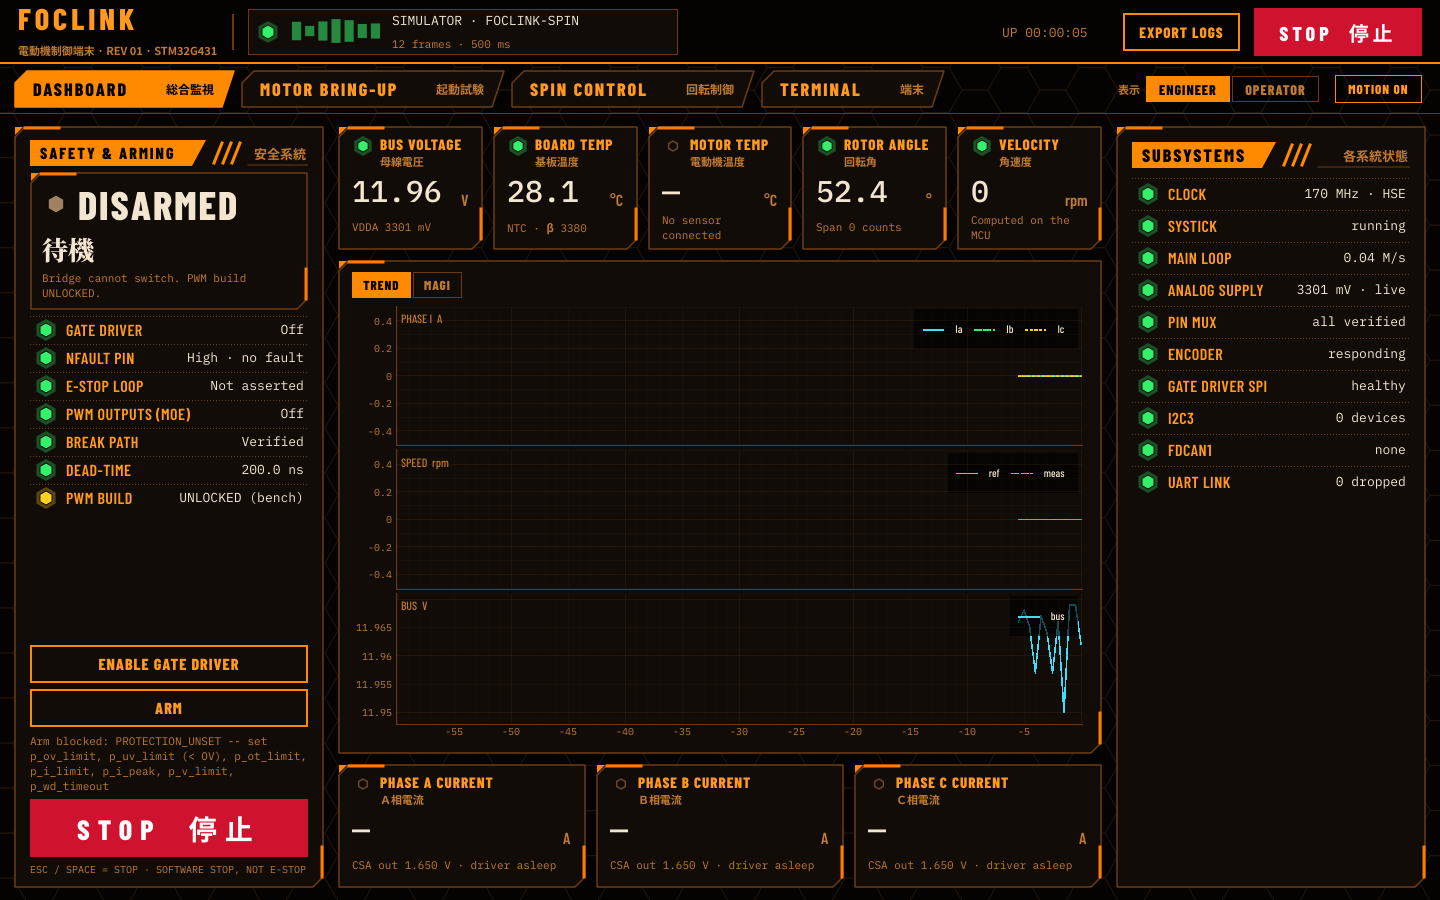
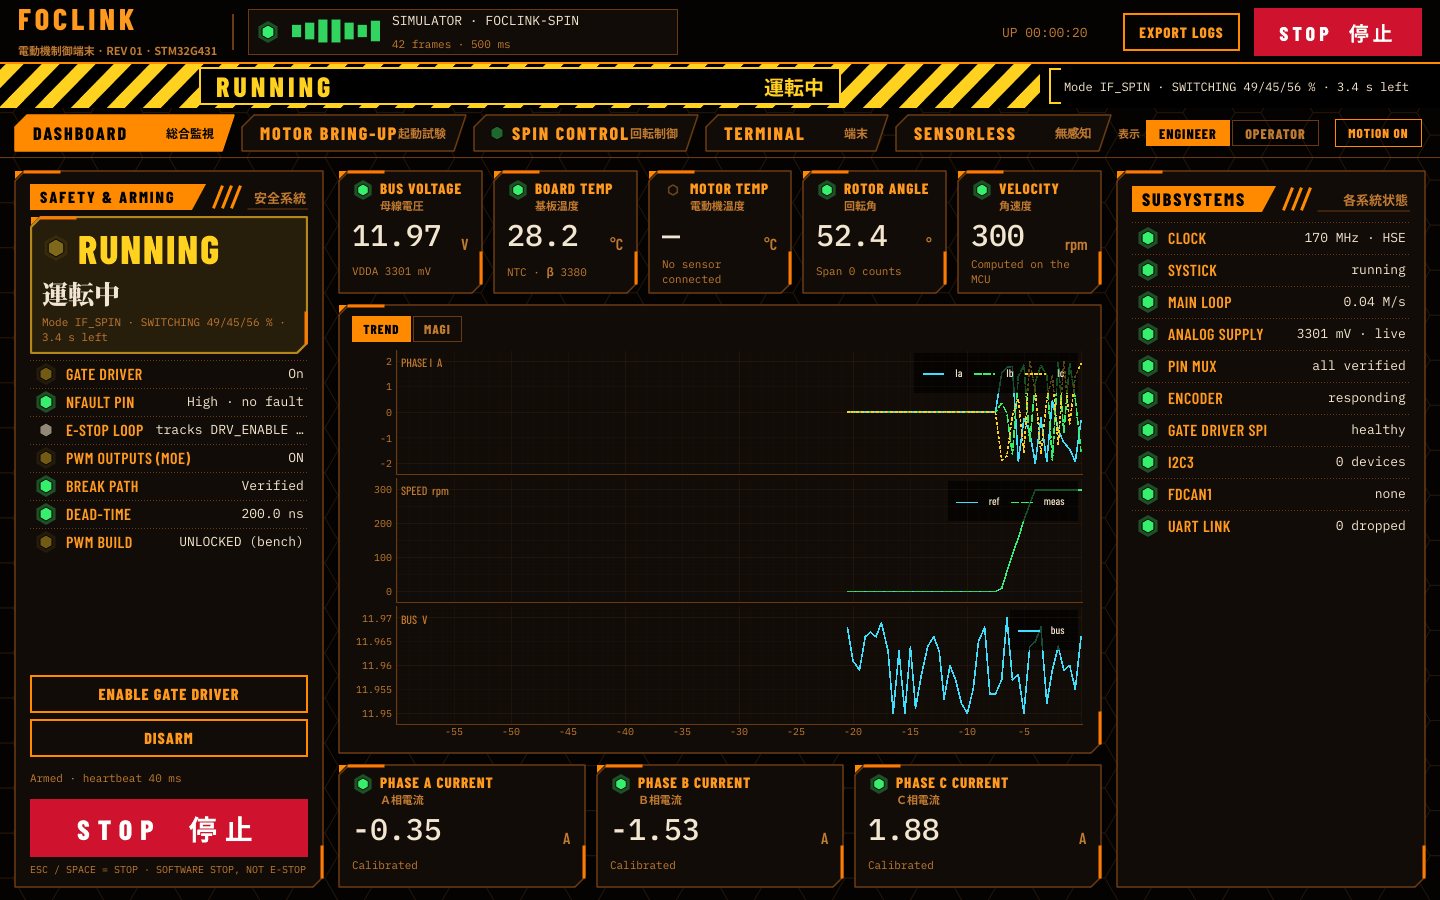
FOC: Nov 22 bench session; avionics: root cause undetermined; no-metadata test
- foc-controller: status, bench characterization (switching, protection,
  current sense, dead time, braking, heat, motor constants), nine annotated
  scope captures, Rev 2 table and an updated checklist from the repo README.
  GUI captures swapped for the repo's running ones; MAGI view dropped.
  Who-did-what line matches the repo.
- avionics-2024: the 2024 servo incident is 'root cause undetermined; most
  likely servo overcurrent following a reversed-connector event', not
  shoot-through. Photo renamed to match.
- resume: FOC line reflects the characterization.
- Privacy: stripped JPEG comment segments from four pictures; new test that
  no project picture carries EXIF, XMP, IPTC or comments.

Claude-Session: https://claude.ai/code/session_014vNndXVmVwynV78716Kcu1

diff --git a/tests/article.spec.js b/tests/article.spec.js
@@ -337,6 +337,28 @@ test.describe('the seven articles, as shipped', () => {
     expect(turned, 'rotate these for real and save without EXIF').toEqual([]);
   });
 
+  /* project rule: no metadata on site pictures (location, camera, dates, comments) */
+  test('no picture carries metadata: no EXIF, XMP, IPTC or comments', () => {
+    const root = `${SITE}/content/projects`, found = [];
+    for (const slug of fs.readdirSync(root)) {
+      if (!fs.statSync(`${root}/${slug}`).isDirectory()) continue;
+      for (const f of fs.readdirSync(`${root}/${slug}`)) {
+        const b = fs.readFileSync(`${root}/${slug}/${f}`);
+        if (/\.jpe?g$/i.test(f)) {
+          for (let i = 2; i < b.length - 4 && b[i] === 0xff && b[i + 1] !== 0xda; i += 2 + b.readUInt16BE(i + 2)) {
+            if ([0xe1, 0xed, 0xfe].includes(b[i + 1])) found.push(`${slug}/${f}: 0x${b[i + 1].toString(16)}`);
+          }
+        } else if (/\.png$/i.test(f)) {
+          for (let i = 8; i < b.length; i += 12 + b.readUInt32BE(i)) {
+            const t = b.toString('ascii', i + 4, i + 8);
+            if (['tEXt', 'iTXt', 'zTXt', 'eXIf', 'caBX'].includes(t)) found.push(`${slug}/${f}: ${t}`);
+          }
+        }
+      }
+    }
+    expect(found, 'strip these').toEqual([]);
+  });
+
   test('sizes.json in every folder is up to date (run: npm run stamp)', () => {
     expect(require('../tools/sizes').run(true)).toEqual([]);
   });

diff --git a/dusk/resume.html b/dusk/resume.html
@@ -138,7 +138,7 @@
       <div class="job-top"><p class="org"><a class="proj-link" href="content/projects/foc-controller/index.html">FOC Motor Controller</a><span class="where"><a class="repo-link" href="https://github.com/WeymenKoo/FOC-Motor-Controller" target="_blank" rel="noopener">GitHub ↗</a></span></p><h3>Designer</h3><span class="when">2026</span></div>
       <ul>
         <li>6-layer KiCad board for a robot leg joint: 12S bus, 10 A RMS design target, STM32G431 + DRV8323S, 14-bit encoder, CAN-FD.</li>
-        <li>Rev 1 fabricated and brought up on 12 V: gate driver, current sensing and PWM verified, motor identified and spun open-loop; <b>LTspice models checked against scope captures</b>. Closed loop in progress.</li>
+        <li>Rev 1 bench-characterized at up to 30 V and 10 A per phase with scripted scope and PSU runs: found <b>−10 V on a −7 V gate-driver pin</b> and a <b>280 A short-circuit trip</b> at the driver's power-on defaults, fixed both, and set the Rev 2 list. <b>LTspice models checked against scope captures</b>.</li>
       </ul>
     </article>
 

diff --git a/dusk/content/projects/foc-controller/article.md b/dusk/content/projects/foc-controller/article.md
@@ -8,12 +8,14 @@ date: Rev 1 · 2026
 
 ![The assembled Rev 1 board, top side, on a light background](photo-rev1.jpg "Rev 1, assembled by JLCPCB.")
 
-**Status:** Rev 1 is design-frozen, fabricated and partly bench-validated on a 12 V supply. The MCU, gate driver (SPI), current sensing and PWM are verified, and a T-Motor MN601-S has been identified (R, L, back-EMF) and spun open-loop up to 1000 rpm. Not yet tested on the 12S bus, under load, or in closed-loop FOC.
+**Status:** Rev 1 is fabricated, brought up and bench-characterised at up to 30 V and 10 A DC per phase (22 November 2026). It switches cleanly, measures its own current to within 1–2 % and protects itself, but only after three of the gate driver's power-on settings were changed. Not yet tested on the 12S bus, at the 10 A RMS design point, under shaft load, with the encoder, or over CAN-FD.
+
+**Who did what.** The electrical design, the bench setup and probing, and the Rev 2 decisions are mine. The firmware and the bench GUI were written by Claude (Anthropic's AI model). In the 22 November session Claude also ran the scripted measurements and implemented the firmware limits, which I reviewed; the operating limits saved to the board were set by me.
 
 | | |
 |---|---|
-| Bus | 12S LiPo: 44.4 V nominal, 50.4 V full, 56 V max |
-| Phase current | 10 A RMS continuous (design target) |
+| Bus | 12S LiPo: 44.4 V nominal, 50.4 V full; continuous limit 51 V (TVS stand-off) |
+| Phase current | 10 A RMS continuous, 14 A peak (design target, not yet reached) |
 | MCU | STM32G431RB, 170 MHz Cortex-M4F |
 | Gate driver | TI DRV8323S (SPI, 3 integrated current-sense amplifiers) |
 | Power stage | 6 × Infineon ISC030N10NM6, 100 V, TDSON-8 |
@@ -54,13 +56,88 @@ Stackup: L1 signal + power, L2 ground, L3 / L4 signal + power, L5 ground (identi
 
 ![All four routing layers overlaid](all-signal-layers.jpg "All four routing layers, ground planes hidden.")
 
-## Bench test
+## Nov 2026 | Bench session
 
-![Rev 1 on the bench: a bench supply set to 12 V, the board, and the motor on the desk](bench-test.jpg#wide "Bench test on a 12 V supply.")
+One day of power-stage characterisation on a 30 V / 5 A bench supply, with a 70 MHz scope and hand-held ×10 probes, a meter and a thermocouple. There was no encoder magnet mount and no dynamometer, so a T-Motor MN601-S served as an inductive load: parked by a DC current vector, or spinning unloaded without the encoder. The aim was to find what the firmware must respect and what Rev 2 has to change.
+
+![Bench setup: the Rev 1 board and the MN601-S motor on a cutting board, a scope, a bench supply at 30 V and a meter reading a thermocouple](bench-setup-nov.jpg#wide "The bench, 22 November 2026.")
+
+Phase current isn't supply current. A parked rotor needs only the winding's I·R drop, so a 10 A DC hold in one phase draws well under 1 A from the 30 V supply, while the bridge still hard-switches 30 V at 10 A every PWM period. Every "10 A" below is 10 A DC in one phase: the peak of the design point, not 10 A RMS.
+
+### Switching: the edge that broke the rating
+
+With current flowing out of a phase, the high-side FET makes the hard edge, and it looked clean. Reversing the current moves the hard edge to the low-side FET. At the gate driver's default gate current, the switch node rang to −10 V against the DRV8323's −7 V absolute maximum, and the shunt pins saw −4.6 V against ±3 V. Every earlier run had done this whenever a phase sank current.
+
+![Annotated scope capture: phase A high-side turn-on at 3 A, 7.9 ns edge, 0.9 V overshoot, 203 ns dead time](scope-01-sourcing-edge.png#wide "Sourcing: the high-side edge, clean.")
+
+![Annotated scope capture: low-side turn-on at the default gate drive, minimum −10 V against the −7 V rating](scope-02-lowside-default.png "Sinking, default gate drive: −10 V on a −7 V pin.")
+![Annotated scope capture: the same edge at 190/380 mA gate drive, minimum −0.76 V](scope-03-lowside-slow.png "Same edge at 190 / 380 mA: −0.76 V.")
+
+| Gate current (source / sink) | Edge time | Switch-node minimum | Across the shunt |
+|---|---|---|---|
+| 1000 / 2000 mA (default) | `7.1 ns` | **`−10.0 V`** | **`−4.6 V`** |
+| 440 / 880 mA | `8.9 ns` | `−2.7 V` | `−2.4 V` |
+| 190 / 380 mA (now the default) | `18.4 ns` | `−0.8 V` | – |
+
+- **Bus voltage doesn't matter:** −2.7 V at 12, 24 and 30 V. The ringing is set by the edge and the layout, which is good news for the 50 V bus (still unproven above 30 V).
+- **Current barely matters:** about −0.1 V per amp at 440 / 880 mA.
+- **Phase C is worse than A and B** in five of five probe placements: its commutation loop is larger. At 10 A the worst case is about −3.6 V against the −7 V rating.
+- **The cost of the slow setting** is about 10 ns of edge time, about 10 mW per phase at 3 A, 30 V and 25 kHz. It grows with current and voltage.
+
+![Annotated scope capture: −4.6 V across the phase A shunt during the low-side turn-on, against the −3 V rating](scope-04-shunt-pins.png "The shunt pins at the default: −4.6 V against ±3 V.")
+![Annotated scope capture: phase C low-side turn-on at 10 A, minimum −1.1 V](scope-05-phaseC-10A.png "Phase C at 10 A, slow gate drive: −1.1 V.")
+
+### Protection: two trips, one of them at 280 A
+
+**Firmware over-current trip.** The outputs go off 9.5 µs after the ADC sample that sees the over-current, four times out of four. With one sample per 40 µs period, the worst case is about 50 µs: fine for overload, far too slow for a short circuit.
+
+**Gate-driver short-circuit trip.** With the DRV8323's VDS threshold at its lowest (0.06 V), phase A's current was ramped in steps, with the firmware trip as a ceiling. At 22 A the gate driver tripped first, three times out of three. 0.06 V across the FET's 2.7 mΩ is 22 A, so **the power-on setting of 0.75 V means a trip at about 280 A**: no usable short-circuit protection. It's now 0.13 V, about 48 A cold and 30 A hot.
+
+![Annotated scope capture: firmware over-current trip, outputs off 9.5 µs after the ADC sample](scope-06-firmware-trip.png "Firmware trip: 9.5 µs after the sample.")
+![Annotated scope capture: gate driver VDS trip at 22 A while phase A current ramps](scope-07-vds-trip.png "Gate-driver trip at 22 A, threshold at its lowest.")
+
+| Layer | Threshold | Response | Covers |
+|---|---|---|---|
+| Firmware over-current | Per mode (12 A for holds); can't exceed 22 A | `9.5 µs` after the sample, about `50 µs` worst case | Overload |
+| DRV8323 VDS monitor | `0.13 V`: about 48 A cold, 30 A hot | Datasheet: 4 µs deglitch plus turn-off (not measured) | Short circuit |
+| Firmware bus limits | 36 V / 22 V on the 30 V bench | Every control period | Supply faults, braking |
+| Heartbeat watchdog | `500 ms` | `501 ms` measured, 5 of 5 | Lost control link |
+| SMCJ51CA TVS | Breaks down at ≥ 56.7 V, clamps up to 82.4 V | Nanoseconds | Transients, **but it clamps above the 65 V rating of the DRV8323 and the buck** |
+| E-stop | None on Rev 1 | – | The supply switch was the E-stop |
+
+### Current sense, dead time, braking, heat
+
+| Check | Result |
+|---|---|
+| Current-sense scale, 3 A and 5 A holds | Correct within `1–2 %` |
+| Current-sense offsets, 12 to 30 V | Move less than `7 mA` |
+| Current-sense noise | `20–27 mA` rms per sample |
+| High duty | Phases A and B read down to a `1.2 µs` window; phase C fails at about `3 µs`, because it's second in its ADC sequence. The firmware rebuilds it from the other two |
+| Dead time | Set by the gate driver, not the MCU: halving the MCU's 200 ns changes nothing. Driver now at 50 ns; no shoot-through at any setting |
+| Braking, 3 A from 1000 rpm on a 12 V bus | Bus pumped to `23 V`; the bench supply can't sink current. A firmware clamp at 90 % of the limit now holds it within `0.1 V` |
+| Low-side FET case, 10 min hold | `+7.5 °C` at 3 A, `+10.2 °C` at 5 A (10 A not yet run) |
+| Supply ramped 30 → 4 → 30 V | Runs down to 5 V, clean restart between 5 and 6 V |
+| 50 sensorless starts | 50 of 50 reached closed loop, `2.45 s ± 40 ms` |
+| Bus ripple, 1000–3000 rpm | `58–79 mV` p-p at 6–21 W |
+
+![Annotated scope capture: phase A and B back-EMF while coasting, 3.04 V line-line peak](scope-08-back-emf.png "Back-EMF while coasting: flux linkage 1.396 mWb, KV ≈ 282.")
+![Annotated scope capture: DC bus ripple at 3000 rpm, 79 mV peak to peak between edges](scope-09-bus-ripple.png "Bus ripple at 3000 rpm: 79 mV p-p.")
+
+**Motor constants.** From the coasting back-EMF, the flux linkage is 1.396 mWb (KV ≈ 282 rpm/V), within 0.5 % of the firmware's value. Four-wire with the motor unplugged, the phase resistance is 17.97 mΩ. The 98 mΩ the firmware identified in September was the bridge's dead-time voltage error read as resistance at 1 A.
+
+**Without an encoder.** Sensorless modes were added for this session: open-loop start handing over to a flux observer, and a position mode that parks the rotor with a current vector. Closed-loop speed reached 3000 rpm unloaded.
+
+![The Rev 1 board and motor in front of the scope](bench-scope-nov.jpg "The board and the MN601-S in front of the scope.")
+
+### Limits of these numbers
+
+- Not tested: above 30 V and 10 A DC, FET temperature at 10 A, the gate driver's short-circuit reaction time, efficiency under load, bulk-capacitor ripple at full power, EMC, CAN-FD, the encoder.
+- A 70 MHz scope and hand-held probes under-read 7–9 ns edges: real peaks are higher than stated.
+- Switch-node voltages are measured against the shunt's ground end, not the gate driver's ground pin.
 
 ## Simulation vs scope
 
-Three LTspice decks built from the Rev 1 netlist, each predicting what a bench measurement on a Rigol DHO804 should show, then checked against the scope captures. Bench results are on a 12 V supply; hot-plug is at 30 V.
+October 2026, before the full characterisation: three LTspice decks built from the Rev 1 netlist, each predicting what a bench measurement on a Rigol DHO804 should show, then checked against the scope captures. Bench results are on a 12 V supply; hot-plug is at 30 V.
 
 ### 1 · Hot-plug (XT60 into a live supply)
 
@@ -90,17 +167,15 @@ Full slides: [Sim and bench results (PDF)](https://github.com/WeymenKoo/FOC-Moto
 
 ## Bench GUI: FOCLINK
 
-FOCLINK is the bench console: a PySide6 app styled as a NERV operations terminal, talking to the firmware over UART. The GUI holds no safety logic; it only requests, and the firmware decides what is allowed. The firmware and GUI live in a separate repository.
+FOCLINK is the bench console: a PySide6 app that talks to the firmware over UART. It holds no safety logic; it only requests, and the firmware decides what is allowed.
 
-![FOCLINK dashboard: safety and arming, live tiles, trend charts, subsystem status](gui-dashboard.png#wide "Dashboard: safety and arming, live tiles, trend charts, subsystem status.")
+![FOCLINK dashboard while the motor spins: armed and switching, phase currents and speed live](gui-dashboard.png#wide "Dashboard: armed and switching, phase currents and speed live.")
 
-![MAGI view: three votes summarising power stage, subsystems and link](gui-magi.png "MAGI 合議: power stage, subsystems and link summarised as three votes")
-![Motor bring-up: preflight sync, bench confirmations, settings and run sequence](gui-motor-bringup.png "Motor bring-up 起動試験: preflight sync, then phase check, R and L identification")
+![Spin control at 300 rpm: bench sync, limits, throttle and live run data](gui-spin-control.png "Spin control: limits set first, then the throttle.")
+![Motor bring-up: preflight sync, bench settings and the run sequence with current-sense calibration passed](gui-motor-bringup.png "Motor bring-up: preflight sync, one click per step.")
+![Terminal: the command log of setting limits, arming, calibrating and spinning, with the parameter table](gui-terminal.png "Terminal: every command and acknowledgement.")
 
-![Spin control: bench sync, limits, throttle and live run data](gui-spin-control.png "Spin control 回転制御: limits first, then the open-loop I/f throttle")
-![Terminal: console and parameter table](gui-terminal.png "Terminal 端末: console, parameters, scope, DRV8323 registers")
-
-Screenshots are from the GUI's built-in board simulator, not a live board.
+These come from the GUI's built-in board simulator, spinning a simulated motor at 300 rpm and 2 A with the limits saved on the real board. They show the GUI, not bench data.
 
 ## Documents
 
@@ -113,24 +188,31 @@ Screenshots are from the GUI's built-in board simulator, not a live board.
 
 ## Validation | What's proven, what's next
 
-Each step runs on a current-limited supply before the next. Ticked items are done; the rest get a scope capture and conditions here as they're run.
+- [x] MCU, gate driver over SPI, current-sense amplifiers and PWM verified
+- [x] Switch node on every phase at 12, 24 and 30 V, up to 10 A; gate drive fixed
+- [x] Dead time measured, and set at the gate driver
+- [x] Firmware over-current trip timed; gate-driver short-circuit trip found at 280 A and fixed
+- [x] Current sense checked against a meter; phase C's high-duty gap found and worked around
+- [x] Motor constants measured: flux linkage from back-EMF, four-wire resistance
+- [x] Closed-loop sensorless speed to 3000 rpm unloaded; 50 of 50 starts
+- [ ] The 12S bus, above 30 V
+- [ ] 10 A RMS, with FET temperature over time
+- [ ] Closed-loop current and speed control on the encoder (needs the magnet mount)
+- [ ] Shaft load, and braking into a real joint's energy
+- [ ] CAN-FD with more than one board
 
-- [x] MCU, gate driver over SPI, current-sense amplifiers and PWM verified on a 12 V supply
-- [x] Motor identified: T-Motor MN601-S resistance, inductance and back-EMF
-- [x] Open-loop (I/f) spin to 1000 rpm on 12 V
-- [ ] Switch node on each phase at 12S: rise and fall, overshoot, ringing
-- [ ] Dead time measured at the gate pins
-- [ ] Closed-loop current (torque) control, step response
-- [ ] Closed-loop speed control on the encoder
-- [ ] Phase current at the 10 A RMS target, with board temperature over time
-- [ ] DC bus sag and ripple during throttle steps
+## Rev 2 | What changes
 
-## Rev 2, top items
+| Priority | Change | Why |
+|---|---|---|
+| High | Bus protection that clamps below 65 V | The TVS clamps at up to 82 V, above the DRV8323 and buck ratings |
+| High | Braking resistor or active bus clamp | Braking pumped a 12 V bus to 23 V with a bare rotor |
+| High | Current-sense outputs routed so both ADCs sample together | Phase C is unreadable at high duty |
+| High | Hardware E-stop independent of the gate driver's enable | Rev 1 has none |
+| High | Bulk capacitors with a verified ripple rating, about 8 A RMS | Not checked on Rev 1 |
+| Medium | Gate resistors, so edge rate doesn't depend on a register that powers up at its fastest | −10 V at the default |
+| Medium | Test points with a ground pad beside each | Hand-held readings varied by up to 2.5 V |
+| Medium | Thermal vias under the low-side FETs, temperature sensor by the bridge | Neither on Rev 1 |
+| Medium | MCU with more headroom | Flash 95.5 % and RAM 96.7 % full |
 
-1. Thermal vias in the low-side drain pads, or a bottom-side switch-node pour
-2. Board NTC moved into the FET zone
-3. Separate analog 3.3 V rail (ferrite + local caps) for VDDA / VREF+
-4. More bulk capacitance, or a lower-ESR part
-5. Hardware CAN node addressing
-
-The full list, with reasons, is in the [repository README](https://github.com/WeymenKoo/FOC-Motor-Controller#rev-2).
+The full list, with the low-priority items, is in the [repository README](https://github.com/WeymenKoo/FOC-Motor-Controller#rev-2).

diff --git a/dusk/content/projects/avionics-2024/article.md b/dusk/content/projects/avionics-2024/article.md
@@ -343,13 +343,13 @@ The final design is a 2-layer board, with no special stackup requirement, follow
 ## Nobody said it was easy
 
 ![A power module exposed to the elements on the airframe](fail-exposure.jpg "Bad integration, exposure to the elements.")
-![A damaged power module held in a hand](fail-shoot-through.jpg "Suspected shoot-through event, killing 4 servos.")
+![A damaged power module held in a hand](fail-servo-damage.jpg "The incident that killed 4 servos. Root cause undetermined.")
 ![The power module installed in the fuselage under the Cube Orange](fail-connectors.jpg "Not rework-friendly; cheap connectors.")
 
 During test flights and the competition, several design flaws became apparent. The most critical were:
 
 - **Poor connector choices**, which caused reliability problems.
-- **A suspected shoot-through event** that irreparably damaged the tail servos. The root cause was never conclusively identified.
+- **An incident that destroyed four tail servos.** Root cause undetermined; most likely servo overcurrent following a reversed-connector event. I called it shoot-through at the time, but no evidence supports that.
 
 Other issues:
 
@@ -358,6 +358,8 @@ Other issues:
 - The ICs' built-in features were underused.
 - No datalog for troubleshooting, and no test points.
 - Better test equipment was needed to validate the design.
+
+The biggest lesson is that the incident couldn't be debugged. One bad day left no logs, no preserved parts and a label nothing backed up. The next boards log their rails and reset causes, have test points, protect each output separately, and use connectors that are harmless when plugged in backwards.
 
 These failures, and the other limits, became the lessons that shaped the redesign of the power distribution system for the following year.
 
